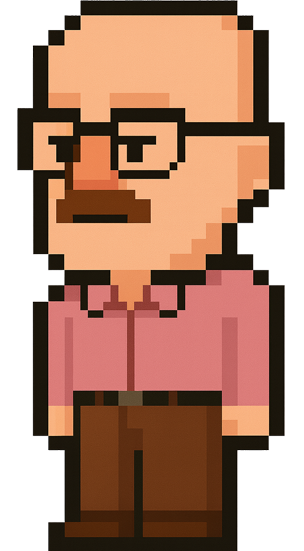
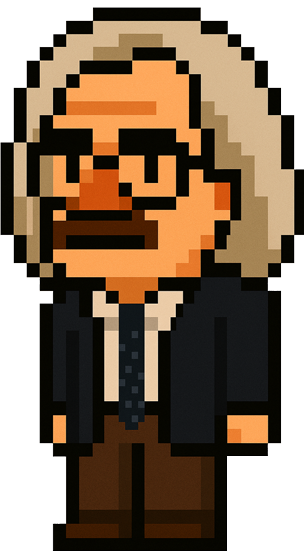
Adicionando transição após tempo e mudando personagem das aulas teóricas

diff --git a/src/phases/phase2_city/SelectionSystem.js b/src/phases/phase2_city/SelectionSystem.js
@@ -176,6 +176,8 @@ function startQuiz(scene) {
   let advanceKey = null;
   let clickZone = null;
   let optionKeys = null;
+  let autoAdvanceTimer = null;
+  let countdownText = null;
 
   const overlay = scene.add.rectangle(width / 2, height / 2, width, height, 0x000000, 0.8)
     .setScrollFactor(0)
@@ -239,13 +241,34 @@ function startQuiz(scene) {
     return advanceHint;
   }
 
+  function startAutoAdvanceTimer(duration = 4000) {
+    if (autoAdvanceTimer) {
+      autoAdvanceTimer.remove();
+    }
+    
+    autoAdvanceTimer = scene.time.delayedCall(duration, () => {
+      if (canAdvance) {
+        advanceToNextQuestion();
+      }
+    });
+  }
+
   function setupAdvanceControls() {
     if (advanceKey) {
       advanceKey.destroy();
     }
     
     advanceKey = scene.input.keyboard.addKey(Phaser.Input.Keyboard.KeyCodes.SPACE);
-    advanceKey.on('down', advanceToNextQuestion);
+    advanceKey.on('down', () => {
+      if (autoAdvanceTimer) {
+        autoAdvanceTimer.remove();
+      }
+      if (countdownText) {
+        countdownText.destroy();
+        countdownText = null;
+      }
+      advanceToNextQuestion();
+    });
     
     if (clickZone) {
       clickZone.destroy();
@@ -256,7 +279,18 @@ function startQuiz(scene) {
       .setDepth(103)
       .setInteractive();
     
-    clickZone.on('pointerdown', advanceToNextQuestion);
+    clickZone.on('pointerdown', () => {
+      if (autoAdvanceTimer) {
+        autoAdvanceTimer.remove();
+      }
+      if (countdownText) {
+        countdownText.destroy();
+        countdownText = null;
+      }
+      advanceToNextQuestion();
+    });
+
+    startAutoAdvanceTimer();
   }
 
   function setupOptionKeys() {
@@ -324,6 +358,15 @@ function startQuiz(scene) {
       }
 
       canAdvance = true;
+      
+      if (autoAdvanceTimer) {
+        autoAdvanceTimer.remove();
+      }
+      if (countdownText) {
+        countdownText.destroy();
+        countdownText = null;
+      }
+      
       createAdvanceHint();
       setupAdvanceControls();
     }
@@ -334,6 +377,15 @@ function startQuiz(scene) {
     
     canAdvance = false;
     current++;
+    
+    if (autoAdvanceTimer) {
+      autoAdvanceTimer.remove();
+      autoAdvanceTimer = null;
+    }
+    if (countdownText) {
+      countdownText.destroy();
+      countdownText = null;
+    }
     
     if (current < quiz.length) {
       showQuestion();
@@ -358,6 +410,10 @@ function startQuiz(scene) {
     if (clickZone) {
       clickZone.destroy();
       clickZone = null;
+    }
+    if (countdownText) {
+      countdownText.destroy();
+      countdownText = null;
     }
 
     buttons.forEach(b => {
@@ -410,6 +466,9 @@ function startQuiz(scene) {
   }
 
   function finishQuiz() {
+    if (autoAdvanceTimer) {
+      autoAdvanceTimer.remove();
+    }
     if (advanceKey) {
       advanceKey.destroy();
     }
@@ -420,7 +479,7 @@ function startQuiz(scene) {
       optionKeys.D.off('down');
     }
     
-    [overlay, panel, progress, question, feedback, advanceHint, clickZone].forEach(el => {
+    [overlay, panel, progress, question, feedback, advanceHint, clickZone, countdownText].forEach(el => {
       if (el && el.destroy) el.destroy();
     });
     

diff --git a/src/engine/intro/introSystem.js b/src/engine/intro/introSystem.js
@@ -6,6 +6,7 @@ export class IntroSystem {
     this.currentInstruction = 0;
     this.canAdvance = true;
     this.eKeyJustPressed = false;
+    this.introCompleted = false;
     
     this.instructions = [
       "Bem-vindo ao CNH Popular - O Jogo!",
@@ -30,10 +31,11 @@ export class IntroSystem {
     this.showingInstructions = data?.showingInstructions ?? false;
     this.currentInstruction = 0;
     this.canAdvance = true;
+    this.introCompleted = false;
   }
 
   shouldShowIntro() {
-    return this.showingCover || this.showingInstructions;
+    return (this.showingCover || this.showingInstructions) && !this.introCompleted;
   }
 
   showCoverScreen() {
@@ -204,9 +206,28 @@ export class IntroSystem {
     if (this.progressText) this.progressText.destroy();
     this.scene.input.off("pointerdown");
   }
+  advanceFromInstructions() {
+    this.showingInstructions = false;
+    this.introCompleted = true;
+    this.cleanupInstructionsScreen();
+    
+    this.scene.time.delayedCall(100, () => {
+      if (this.scene.setupCharacterSelection) {
+        this.scene.setupCharacterSelection((character) => {
+          this.scene.startGameWithCharacter(character);
+        });
+      }
+    });
+  }
 
   update() {
-    if (!this.scene.keys) return;
+    if (this.introCompleted) {
+      return false;
+    }
+
+    if (!this.scene.keys || !this.scene.keys.E) {
+      return this.shouldShowIntro();
+    }
 
     const eKeyPressed = this.scene.keys.E.isDown;
     
@@ -234,7 +255,8 @@ export class IntroSystem {
   getCurrentState() {
     return {
       showingCover: this.showingCover,
-      showingInstructions: this.showingInstructions
+      showingInstructions: this.showingInstructions,
+      introCompleted: this.introCompleted
     };
   }
 }

diff --git a/src/phases/phase4_driving_school1/drivingSchool1.js b/src/phases/phase4_driving_school1/drivingSchool1.js
@@ -38,9 +38,9 @@ export function startPhase4(scene) {
   const instructor = new InteractiveObject(scene, {
     key: 'instructor',
     x: width - 310,
-    y: height - 130,
+    y: height - 132,
     texture: 'instructor',
-    scale: 0.24,
+    scale: 0.25,
     width: 100,
     height: 100,
     proximity: { x: 80, y: 120 }, 
